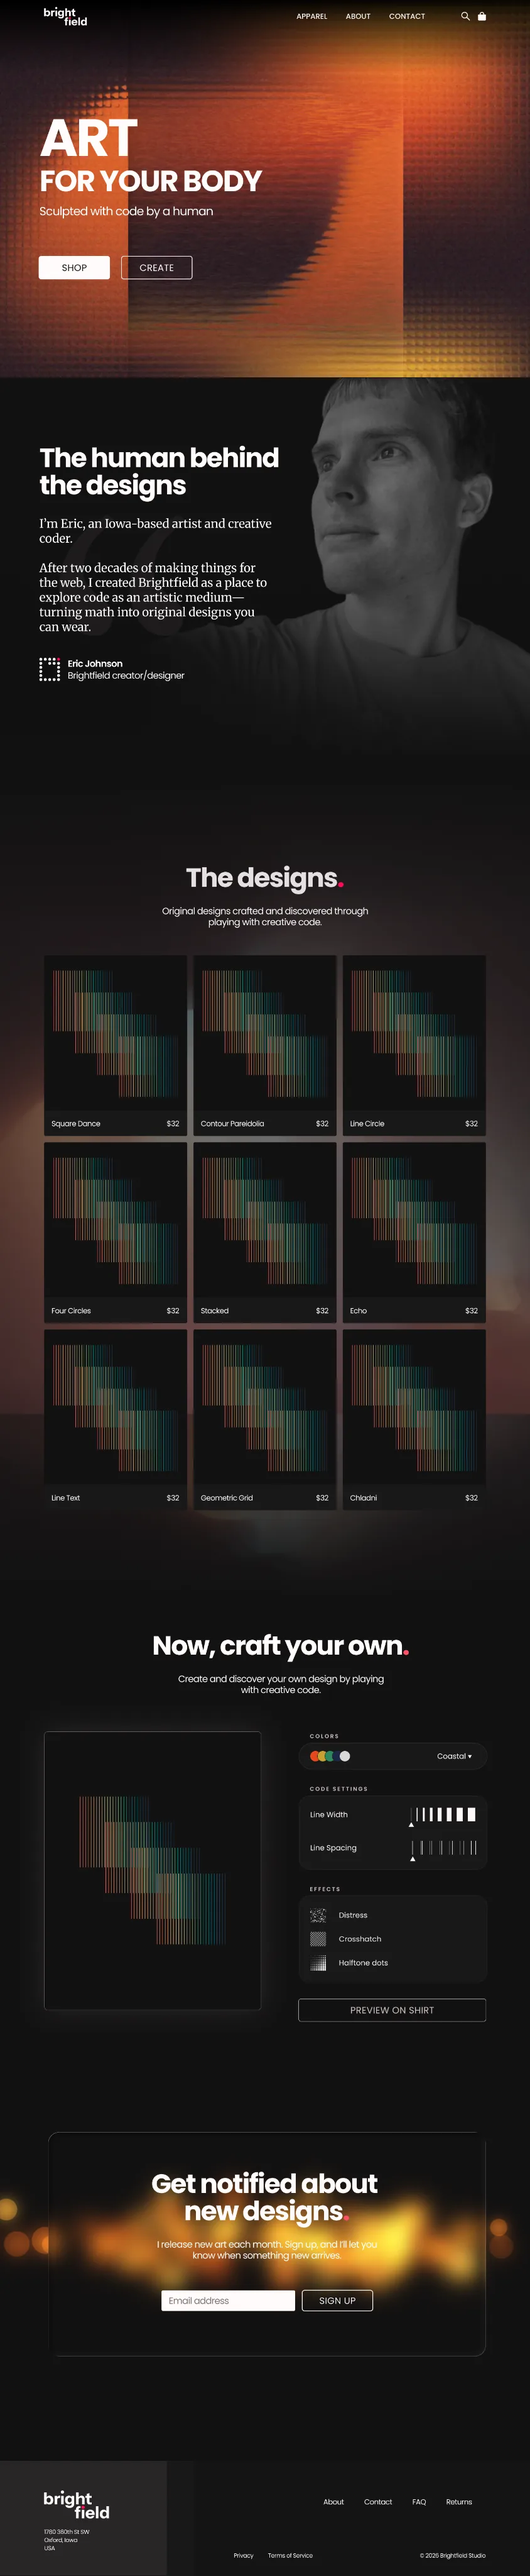
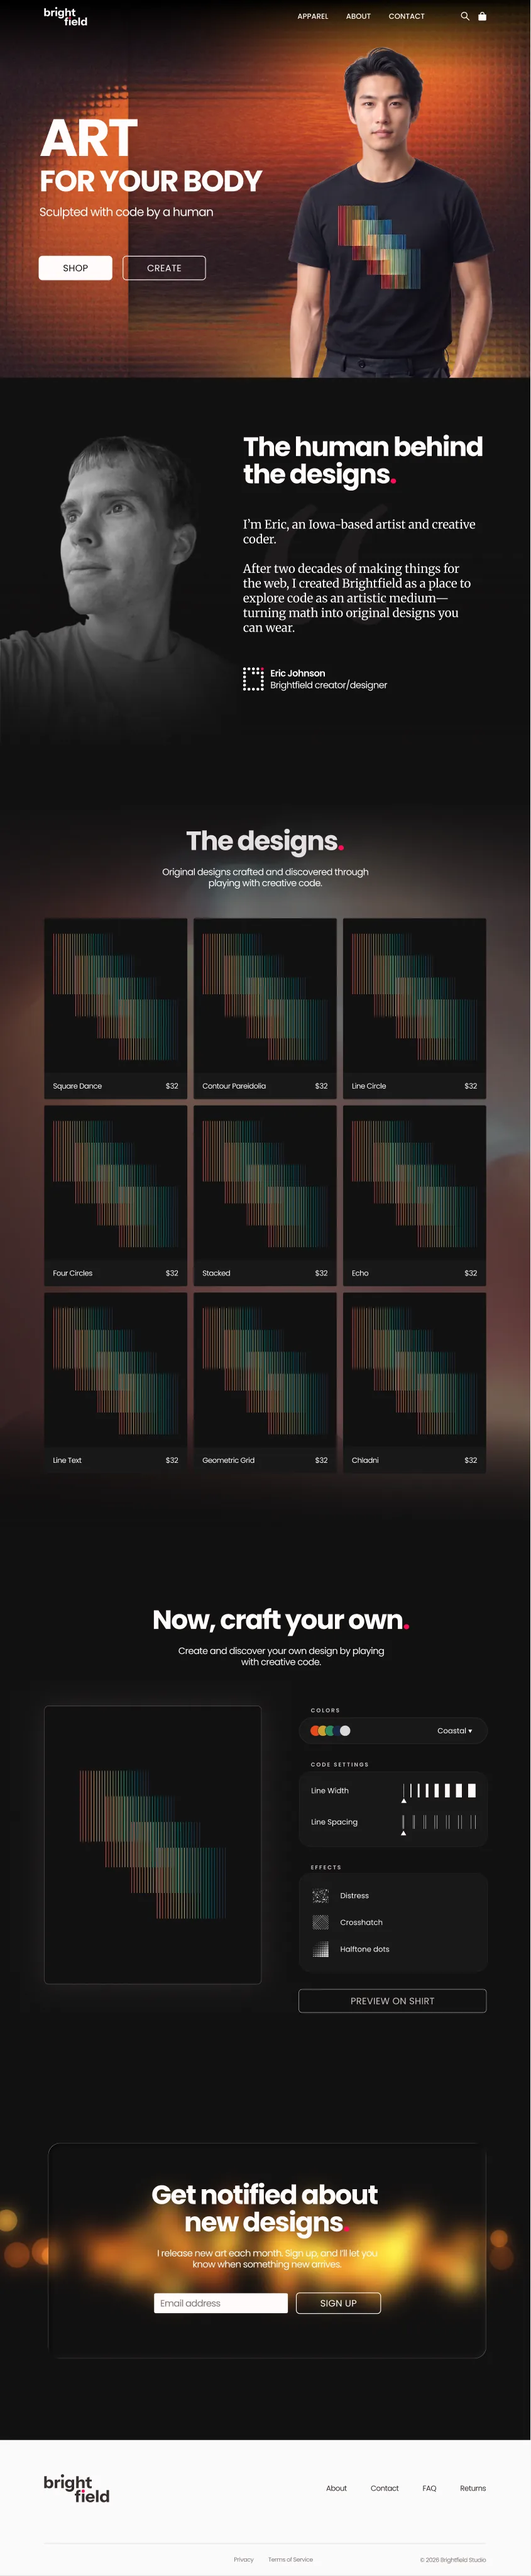
Bring the story in line with #57: new After capture, hero and human copy
Re-exports the After homepage from the Nov 2026 Figma file (model in the
hero, portrait on the left, light footer), and updates the Hero, Human and
What changed text that described the earlier version.

Claude-Session: https://claude.ai/code/session_016ninuu8GUYew773Tub5Q7F

diff --git a/next-frontend/src/app/work-ive-done/brightfield-redesign/page.tsx b/next-frontend/src/app/work-ive-done/brightfield-redesign/page.tsx
@@ -65,7 +65,7 @@ const stayedTheSame = [
 
 const whatChanged = [
     "The headline went from “Source Code for Your Shirt” to “Art for your body”.",
-    "The hero went from a model photo with a shader laid over it to the art by itself, edge to edge.",
+    "The hero went from a model photo with a shader laid over it to the art edge to edge, with a model wearing one of the designs in front of it.",
     "Neon cyan and magenta with monospace labels became warm neutrals, one pink accent, and Poppins.",
     "A new section introduces the person making the art.",
     "Product cards went from a model photo with two buttons to the art, a name, and a price.",
@@ -200,20 +200,22 @@ export default function BrightfieldRedesignPage() {
                                 {
                                     label: "Before",
                                     src: `${IMG}/before-full.webp`,
+                                    width: 844,
                                     height: 2617,
                                     alt: "Old Brightfield homepage: a photo of a model in a stone alley under the headline Source Code for Your Shirt, a grid of nine shirts on models with cyan buttons, a customizer with sliders, and an email sign-up.",
                                 },
                                 {
                                     label: "After",
                                     src: `${IMG}/after-full.webp`,
+                                    width: 845,
                                     height: 4096,
-                                    alt: "Redesigned Brightfield homepage: a full-width orange shader render under the headline Art for your body, a portrait and bio of Eric, a grid of nine designs, shader controls, and an email sign-up.",
+                                    alt: "Redesigned Brightfield homepage: an orange shader render under the headline Art for your body, with a model wearing a shirt printed with a Brightfield design, a black and white portrait and bio of Eric, a grid of nine designs, shader controls, an email sign-up, and a light footer.",
                                 },
-                            ].map(({ label, src, height, alt }) => (
+                            ].map(({ label, src, width, height, alt }) => (
                                 <div key={label}>
                                     <p className="mb-2 text-sm text-gray-500">{label}</p>
                                     <div className="rounded-lg overflow-hidden bg-[#121111]">
-                                        <Image src={src} alt={alt} width={844} height={height} sizes="(min-width: 1024px) 500px, 50vw" className="w-full h-auto" />
+                                        <Image src={src} alt={alt} width={width} height={height} sizes="(min-width: 1024px) 500px, 50vw" className="w-full h-auto" />
                                     </div>
                                 </div>
                             ))}
@@ -254,9 +256,9 @@ export default function BrightfieldRedesignPage() {
                         I tried the headline three ways before the image changed at all: light lowercase, light uppercase, and bold uppercase with a quieter line under it.
                     </p>
                     <p className={`${P} mb-4`}>
-                        Then the image. The obvious choice for a shirt store is a photo of someone wearing the shirt, and I mocked that up. The old homepage did the same thing. I also tried a plain gradient before settling on the orange render.
+                        Then the image. I mocked up a photo of a man in a shop, like the photo-led hero on the old homepage, and a plain gradient, before settling on the orange render. The final design puts a model wearing one of the printed shirts in front of that render, so the art and the shirt arrive together.
                     </p>
-                    <Figure caption="Six hero directions. The last one is the final.">
+                    <Figure caption="Six hero directions. The last one became the final, with a model added.">
                         <div className="grid grid-cols-2 md:grid-cols-3 gap-3">
                             {heroExplorations.map((alt, i) => (
                                 <Image
@@ -285,7 +287,7 @@ export default function BrightfieldRedesignPage() {
                         <HumanMockup />
                     </Figure>
                     <p className={`${P} mt-6 mb-4`}>
-                        I laid this section out four ways with the same words. The first three set the bio as a quote, with a heading, a large quotation mark, and a small round avatar. The fourth gives a portrait half the section. It is the only photograph on the page, and it&apos;s black and white. In the final version the avatar is gone, and the Brightfield lettermark sits in its place next to my name.
+                        I laid this section out four ways with the same words. The first three set the bio as a quote, with a heading, a large quotation mark, and a small round avatar. The fourth gives a black and white portrait half the section. The final version keeps that portrait, moves it to the left, and puts the large quotation mark back behind the bio. The avatar is gone, and the Brightfield lettermark sits in its place next to my name.
                     </p>
                     <Figure caption="Four layouts for the same words. The portrait made it into the final.">
                         <div className="grid grid-cols-2 md:grid-cols-4 gap-3">
